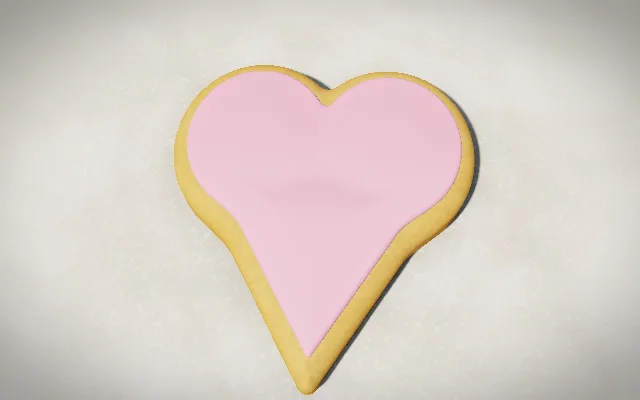
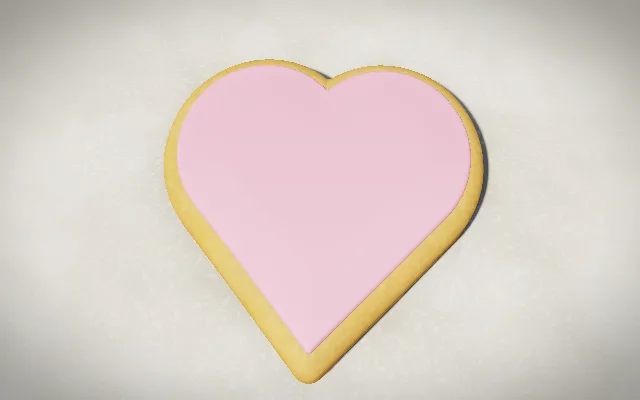
COOKIE_: a smooth heart - lobes tangent to the sides (Quilez's exact heart) instead of two circles and a triangle that left dents

Changed region(s): [[0.25, 0.15, 0.7812, 0.99]]

diff --git a/src/modes/cookie/shapes.ts b/src/modes/cookie/shapes.ts
@@ -96,17 +96,24 @@ function tree(widths: number[], top: number, bottom: number): Sdf {
   return poly([...right, ...left]);
 }
 
+/**
+ * Two round lobes on a square tip, the sides tangent to the lobes so the outline has no kink
+ * (Inigo Quilez's exact heart, scaled and centred, the tip rounded a little more).
+ */
 function heart(): Sdf {
-  return union(
-    0.1,
-    circle(-0.42, 0.35, 0.5),
-    circle(0.42, 0.35, 0.5),
-    poly([
-      [-0.8, 0.2],
-      [0.8, 0.2],
-      [0, -0.95],
-    ]),
-  );
+  const s = 1.55;
+  const dy = 0.856; // half its height: the middle of the heart sits at the origin
+  return (x, y) => {
+    const px = Math.abs(x) / s;
+    const py = (y + dy) / s;
+    let d: number;
+    if (px + py > 1) d = Math.hypot(px - 0.25, py - 0.75) - Math.SQRT2 / 4;
+    else {
+      const m = 0.5 * Math.max(px + py, 0);
+      d = Math.sqrt(Math.min(px * px + (py - 1) ** 2, (px - m) ** 2 + (py - m) ** 2)) * Math.sign(px - py);
+    }
+    return d * s - 0.04;
+  };
 }
 
 function teddy(armY: number): Sdf {
